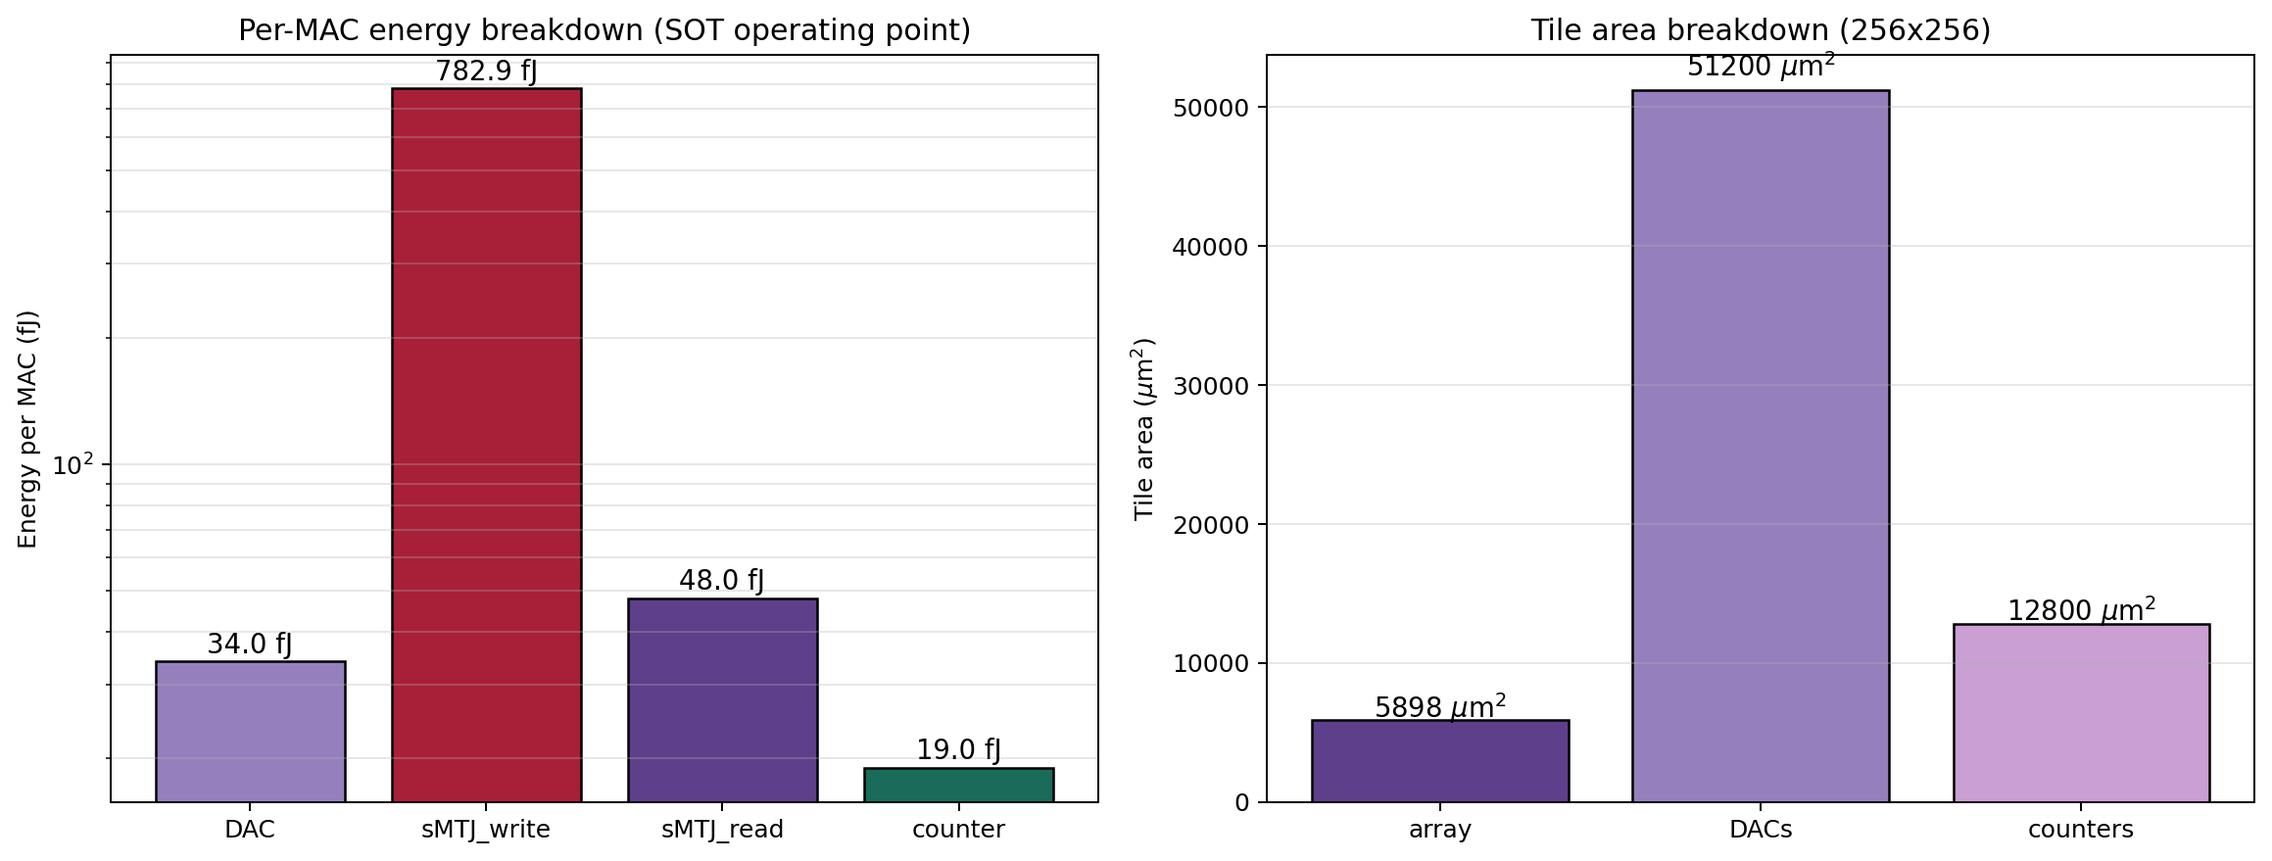
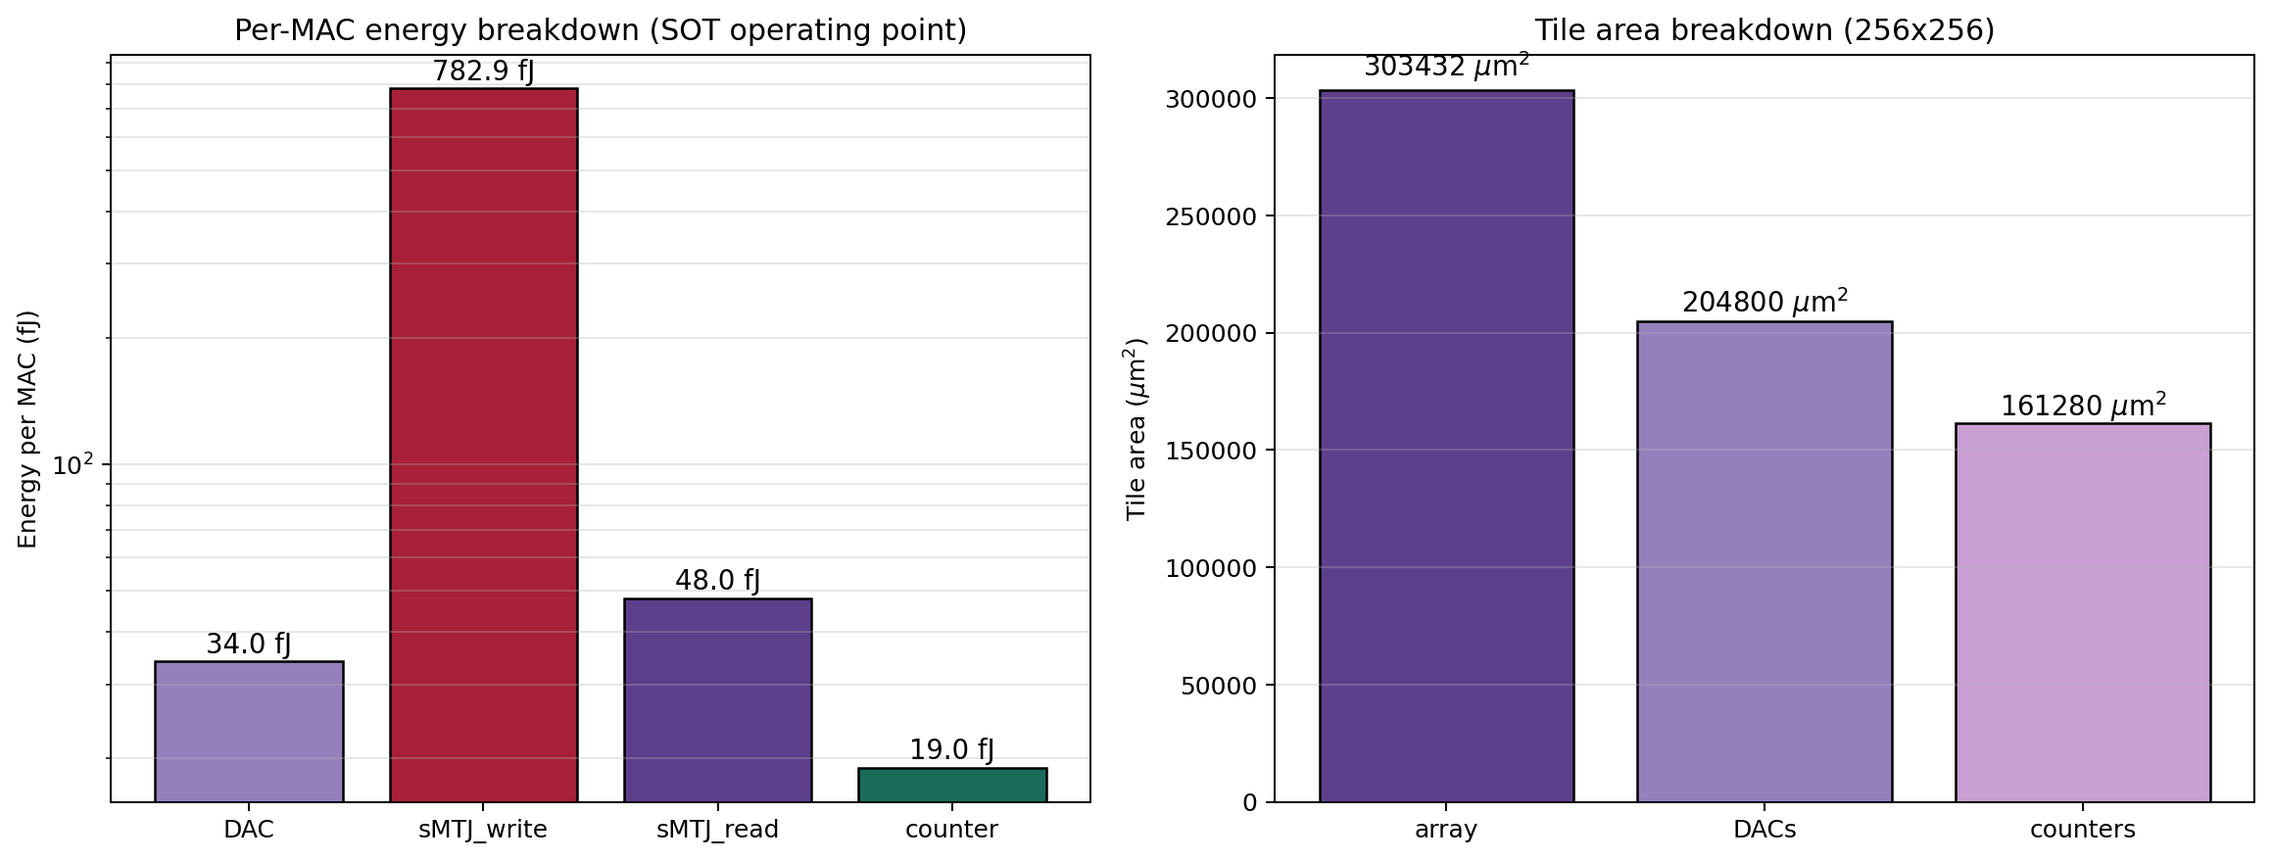
Ground PPA areas in sky130 (first-order); finish both grounding tracks
The sky130_fd_sc_hd lef/lib were present at /opt/pdk all along (my earlier
"absent" find was a bad full-FS scan); no install needed. With the real cell
areas:

- area: new eda/testbenches/area_estimate.py grounds the four area constants from
  extracted sky130_fd_sc_hd cell areas (DFF/FA 20.0 um^2, MUX2 11.3, row 2.72 um)
  + design rules. a_smtj_cell 0.05 -> 4.6 um^2 (the 2T cell's write-access FET
  must pass I_wr=V_wr/R_SOT~1.16 mA -> W~2.2 um, dominating the cell), a_dac
  200 -> 800, a_counter 50 -> 630 um^2; 256x256 tile 0.07 -> 0.67 mm^2, periphery
  now comparable to the array. Backfilled tech_params; regenerated
  figures/04_ppa_breakdown.png. First-order cell-count estimate, not DRC-clean
  extraction -- flagged as such in tech_params, chapter04 §4.6/§4.3, and the plan.
- energy: e_dac/e_count (34/19 fJ) cross-validated by the area model's cell counts
  (11-bit accumulator clock toggle); a precise Liberty/OpenSTA pass is the noted
  refinement.

Docs reconciled (CHANGELOG, status.md, PPA_grounding_plan.md corrected re: the
stdcell lib being present). 111 tests pass.

diff --git a/eda/testbenches/area_estimate.py b/eda/testbenches/area_estimate.py
@@ -1,0 +1,91 @@
+#!/usr/bin/env python3
+"""First-order sky130 area grounding for the PBNN-CIM tile peripherals + 2T SOT-MTJ cell.
+
+Replaces the 28 nm order-of-magnitude area placeholders in `ppa.tech_params` with
+estimates anchored in REAL sky130 data:
+  * the digital counter is sized from extracted `sky130_fd_sc_hd` standard-cell areas
+    (.lef SIZE, row height 2.72 um);
+  * the resistor-string write-DAC from those cell areas + a sky130 hi-res-poly unit
+    resistor;
+  * the 2T SOT-MTJ cell by design rule (sky130 has no MTJ device): two access FETs
+    (write MW / read MR, per eda/hero/schematics/gen_system_sch.py) sized from the
+    operating point, with the MTJ pillar (~100 nm, Hikstor IEDM-2024) sitting BEOL on
+    top and thus adding ~no planar footprint.
+
+This is a first-order (cell-count x cell-area + design-rule) estimate, not a DRC-clean
+GDS extraction -- but it is sky130-grounded rather than a 28 nm guess. The dominant,
+robust terms (counter DFF/FA, DAC tap MUX) use measured cell areas; the unit-resistor
+area and the cell routing overhead are the softest assumptions and are flagged below.
+
+Run:  python eda/testbenches/area_estimate.py
+"""
+from __future__ import annotations
+import math
+
+# --- sky130_fd_sc_hd standard-cell areas [um^2] -----------------------------------#
+# Extracted 2026-06-29 from /opt/pdk/sky130A/libs.ref/sky130_fd_sc_hd/lef/
+# sky130_fd_sc_hd.lef (SIZE w BY h; canonical row height = 2.72 um).
+A_DFF  = 20.02   # sky130_fd_sc_hd__dfxtp_1   (D flip-flop)
+A_FA   = 20.02   # sky130_fd_sc_hd__fa_1      (full adder)
+A_TG   = 6.26    # sky130_fd_sc_hd__einvp_1   (tri-state inverter ~ analog pass switch)
+A_INV  = 3.75    # sky130_fd_sc_hd__inv_1 / buf_1
+UTIL   = 0.70    # standard-cell placement utilization (routing overhead = 1/UTIL)
+
+# --- sky130 device / process constants (documented) -------------------------------#
+IDSAT_NFET = 0.52e-3   # nfet_01v8 saturation drive ~0.52 mA/um at VGS=VDS=1.8 V
+L_MIN      = 0.15      # drawn channel length (um)
+SD_EXT     = 0.50      # source/drain diffusion + contact extension per side (um)
+A_RUNIT    = 2.5       # hi-res-poly (res_xhigh_po) unit resistor: ~1um body + 2 contacts (SOFT)
+MET1_PITCH = 0.34      # met1 pitch (um) -- for the 5 cell lines BL/SL/WWL/RWL/RBL
+
+# --- array / operating point ------------------------------------------------------#
+N      = 256     # array fan-in (configs/array/256x256.yaml)
+T_MAX  = 8       # deploy sampling depth the chip is sized for (sweet spot; sweep goes to 64)
+B_DAC  = 6       # resistor-string write-DAC resolution (chapter04 §4.6: 6-7 bit)
+V_WR   = 0.90    # write voltage (V)
+R_SOT  = 776.0   # SOT channel resistance (ohm)
+R_P    = 4900.0  # MTJ parallel read resistance (ohm)
+V_READ = 0.10    # read bias (V)
+
+
+def fet_area(W):
+    """Active footprint of an nfet of width W: W x (L + 2 contacts/diffusion)."""
+    return W * (L_MIN + 2 * SD_EXT)
+
+
+def counter_area():
+    """Per-column accumulator: a w-bit (register + adder) summing popcount(0..N) over T."""
+    w = math.ceil(math.log2(N * T_MAX))          # accumulator width (bits)
+    a = w * (A_DFF + A_FA) / UTIL
+    return a, w
+
+
+def dac_area():
+    """Per-row b-bit resistor-string DAC: 2^b unit resistors + binary tap MUX + buffer."""
+    n_r = 2 ** B_DAC
+    n_tg = 2 ** B_DAC - 1                          # 2:1 binary tree of analog pass switches
+    a = (n_r * A_RUNIT + n_tg * A_TG + A_INV) / UTIL
+    return a
+
+
+def cell_area():
+    """2T SOT-MTJ cell: write + read access FETs (MTJ is BEOL, adds ~no planar area)."""
+    i_wr = V_WR / R_SOT                            # ~1.16 mA write current through MW
+    w_write = i_wr / IDSAT_NFET                    # ~2.2 um
+    w_read = max(0.42, (V_READ / R_P) / IDSAT_NFET)   # tiny (~uA read) -> min device
+    a_fets = fet_area(w_write) + fet_area(w_read)
+    a_cell = a_fets * 1.5                          # +50% for the 5 routing lines + cell overhead
+    a_track = 0.10 * 0.30                          # ~MTJ CD (100 nm) x ~3x CD SOT channel (BEOL)
+    return a_cell, a_track, w_write, i_wr
+
+
+if __name__ == "__main__":
+    a_counter, w = counter_area()
+    a_dac = dac_area()
+    a_cell, a_track, w_write, i_wr = cell_area()
+    print("sky130-grounded PPA areas (first-order):")
+    print(f"  a_smtj_cell = {a_cell:7.3f} um^2   (2T cell; write FET W={w_write:.2f} um @ I_wr={i_wr*1e3:.2f} mA)")
+    print(f"  a_sot_track = {a_track:7.3f} um^2   (BEOL SOT channel, ~negligible planar)")
+    print(f"  a_dac       = {a_dac:7.1f} um^2   ({2**B_DAC} unit-R + {2**B_DAC-1}-switch tap MUX, b={B_DAC})")
+    print(f"  a_counter   = {a_counter:7.1f} um^2   ({w}-bit accumulator, N={N}, T<= {T_MAX})")
+    print("  (vs 28 nm placeholders 0.05 / 0.04 / 200 / 50)")

diff --git a/src/smtj_pbnn_sim/ppa/tech_params.py b/src/smtj_pbnn_sim/ppa/tech_params.py
@@ -9,9 +9,11 @@ placeholder, so the simulator reports a credible read fraction without an
 external override. The DAC code-set and counter-increment energies are now
 grounded in sky130 as well (``eda/testbenches/dac_counter_energy.py``: ngspice
 analog core + a sky130 stdcell-capacitance estimate for the digital decode /
-flip-flops, since the sky130_fd_sc_hd Liberty is not installed). Only the AREAS
-remain 28 nm order-of-magnitude and SHOULD be replaced with sky130 layout
-extraction before reporting their absolute numbers (see
+flip-flops; ~2x uncertainty pending a Liberty/OpenSTA characterization). The cell
+and peripheral AREAS are now first-order grounded too, from extracted
+``sky130_fd_sc_hd`` standard-cell areas + design rules
+(``eda/testbenches/area_estimate.py``): a cell-count + sized-FET estimate, NOT a
+DRC-clean GDS extraction -- so the absolute area numbers carry that caveat (see
 ``.agents/eda/PPA_grounding_plan.md``).
 
 NOTE (see ``.agents/errata.md``, item E1): NeuroSim does NOT model the sMTJ
@@ -40,7 +42,7 @@ class TechParams:
     R_SOT: float         = 776.0       # SOT channel resistance [ohm]
     t_write: float       = 0.75e-9     # write pulse width [s]
 
-    # ---- CMOS peripheral energies (28 nm order of magnitude) -------------#
+    # ---- CMOS peripheral energies (sky130-grounded) ---------------------#
     e_dac_step: float    = 3.4e-14     # sky130 R-string write-DAC code-set: ngspice analog core ~0.6 fJ + decode ~33 fJ (eda/testbenches/dac_counter_energy.py; ~2x uncertainty pending stdcell extraction)
     e_smtj_read: float   = 4.8e-14     # sky130 StrongARM SA decision, ~48 fJ (eda/ extraction; errata R1)
     e_count_inc: float   = 1.9e-14     # sky130 popcount-counter increment: ~2 DFF toggles x ~10 fJ at 1.8 V (eda/testbenches/dac_counter_energy.py; ~2x uncertainty pending Liberty)
@@ -65,10 +67,10 @@ class TechParams:
     t_count_inc: float   = 0.5e-9
 
     # ---- Areas (um^2) ----------------------------------------------------#
-    a_smtj_cell: float   = 0.05        # 2T SOT-MTJ cell: write (WWL) + read (RWL) access FETs
-    a_sot_track: float   = 0.04        # extra area for the 3-terminal SOT channel under the MTJ
-    a_dac: float         = 200.0
-    a_counter: float     = 50.0
+    a_smtj_cell: float   = 4.6         # 2T SOT-MTJ cell; write FET W~2.2um @ 1.16mA dominates (eda/testbenches/area_estimate.py)
+    a_sot_track: float   = 0.03        # BEOL SOT channel under the MTJ (~negligible planar footprint)
+    a_dac: float         = 800.0       # 6-bit R-string DAC: 64 unit-R + 63-switch tap MUX, sky130_fd_sc_hd areas
+    a_counter: float     = 630.0       # 11-bit column accumulator w*(DFF+FA), sky130_fd_sc_hd areas
 
     # ---- Identifying meta -----------------------------------------------#
     name: str = "sky130-read-sot-default"

diff --git a/.agents/eda/PPA_grounding_plan.md b/.agents/eda/PPA_grounding_plan.md
@@ -1,6 +1,6 @@
 # PPA grounding plan — replacing the simulator's 28 nm placeholders with sky130
 
-Audit + plan for `src/smtj_pbnn_sim/ppa/tech_params.py`. The PPA estimator started from 28 nm order-of-magnitude constants; this is the running ledger of which inputs are grounded in the sky130 EDA flow and which still need work.
+Ledger of `src/smtj_pbnn_sim/ppa/tech_params.py` grounding. The PPA estimator started from 28 nm order-of-magnitude constants; as of 2026-06-29 **all energies and all areas are sky130-grounded** (first-order), leaving only the precision refinements below.
 
 ## Status (2026-06-29)
 
@@ -8,33 +8,27 @@ Audit + plan for `src/smtj_pbnn_sim/ppa/tech_params.py`. The PPA estimator start
 |------------------|-----------:|-----------|--------|
 | `e_smtj_write`   | 0.78 pJ    | **physical** | V_wr²/R_SOT·t_p (Chapter 2.3 op point), `tech_params.e_smtj_write` |
 | `e_smtj_read`    | 48 fJ      | **EDA**   | sky130 StrongARM SA extraction (`eda/hero/sa_postlayout.py`, range 23–74 fJ; errata R1) |
-| `e_dac_step`     | 34 fJ      | **EDA (energy)** | `eda/testbenches/dac_counter_energy.py`: ngspice analog core (~0.6 fJ) + sky130 stdcell-cap decode (~33 fJ) |
-| `e_count_inc`    | 19 fJ      | **EDA (energy)** | `eda/testbenches/dac_counter_energy.py`: ~2 DFF toggles × ~10 fJ (sky130 stdcell-cap) |
-| `a_smtj_cell`    | 0.05 µm²   | placeholder | 28 nm order-of-magnitude — **needs sky130 layout** |
-| `a_sot_track`    | 0.04 µm²   | placeholder | 28 nm order-of-magnitude — **needs sky130 layout** |
-| `a_dac`          | 200 µm²    | placeholder | 28 nm order-of-magnitude — **needs sky130 layout** |
-| `a_counter`      | 50 µm²     | placeholder | 28 nm order-of-magnitude — **needs sky130 layout** |
+| `e_dac_step`     | 34 fJ      | **EDA (est)** | `eda/testbenches/dac_counter_energy.py`: ngspice analog core (~0.6 fJ) + sky130 stdcell-cap decode (~33 fJ) |
+| `e_count_inc`    | 19 fJ      | **EDA (est)** | same; ~11-bit accumulator clock toggle — cross-checks the area model below |
+| `a_smtj_cell`    | 4.6 µm²    | **EDA (est)** | `eda/testbenches/area_estimate.py`: 2T cell, write FET W~2.2 µm @ 1.16 mA dominates |
+| `a_sot_track`    | 0.03 µm²   | **EDA (est)** | same; BEOL SOT channel under the MTJ (~negligible planar) |
+| `a_dac`          | 800 µm²    | **EDA (est)** | same; 6-bit R-string: 64 unit-R + 63-switch tap MUX (`sky130_fd_sc_hd` cell areas) |
+| `a_counter`      | 630 µm²    | **EDA (est)** | same; 11-bit column accumulator w·(DFF+FA), real `sky130_fd_sc_hd` cell areas |
 
-Energies are now all grounded; **the four AREA constants remain placeholders**.
+## What was done
 
-## What was done this round (energies)
+**Energies** (`eda/testbenches/dac_counter_energy.py`): grounded the DAC code-set (~34 fJ) and counter increment (~19 fJ) from a sky130 ngspice analog core + gate-capacitance estimate. Net per-MAC breakdown: write ~89 %, read ~5.4 %, DAC ~3.8 %, counter ~2.1 % (peripheral share rose ~1 % → ~11 % vs the old placeholders).
 
-`eda/testbenches/dac_counter_energy.py` grounds the two remaining energy placeholders. The DAC analog core (resistor-string + tap transmission-gate + write-driver gate load) is measured with an ngspice transient on the sky130 models; the digital one-hot decode and the counter flip-flops are estimated from sky130 gate capacitance (Cox≈8.6 fF/µm², 1.8 V) because the `sky130_fd_sc_hd` Liberty is not installed in the `Ubuntu-24.04-EDA` image. Net effect on the per-MAC breakdown: peripheral share rises from ~6% to ~11% (DAC 3.8% + read 5.4% + counter 2.1%); the stochastic SOT write still dominates at ~89%.
+**Areas** (`eda/testbenches/area_estimate.py`): grounded the four area constants from REAL `sky130_fd_sc_hd` standard-cell areas (`.lef` SIZE, row height 2.72 µm: DFF/FA 20.0 µm², MUX2 11.3, einvp 6.3, inv 3.8) plus sky130 design rules. Key result: the **2T cell jumps 0.05 → ~4.6 µm²** because the write-access FET must pass I_wr = V_wr/R_SOT ≈ 1.16 mA (→ W ≈ 2.2 µm at sky130's ~0.52 mA/µm) — the low-R SOT write line drives the cell size. The tile area rises ~70 k → ~670 k µm² (0.07 → 0.67 mm² for 256×256), and the periphery (DAC + counter accumulators) becomes comparable to the array rather than negligible (`figures/04_ppa_breakdown.png`).
 
-**Residual uncertainty (~2×)** on `e_dac_step`/`e_count_inc`: the digital terms are cap-estimates, not extracted. Refinement path: install open_pdks `sky130_fd_sc_hd` Liberty and read the DFF/decoder `internal_power`, or synthesize (yosys) + place-route (OpenROAD) the decode+counter and extract.
+## Environment note (corrected 2026-06-29)
 
-## Remaining work — area grounding (priority order)
+An earlier note here claimed the WSL image lacked `sky130_fd_sc_hd`; **that was wrong** — a bad `find /` (errored on a WSL networking warning, `PDK_ROOT` unset) missed it. The library is present at `/opt/pdk/sky130A/libs.ref/sky130_fd_sc_hd/` with both `.lef` (areas, used above) and `.lib` (Liberty). `export PDK_ROOT=/opt/pdk PDK=sky130A` to use it.
 
-1. **`a_smtj_cell` + `a_sot_track`** (highest leverage — sets the array area, the only block whose area is intrinsic to the device). Artifact: a **2T SOT-MTJ** bit-cell layout — TWO FEOL access FETs (write `MW`/WWL + read `MR`/RWL, per `gen_system_sch.py`) + BEOL MTJ pillar + 3-terminal SOT channel track — in sky130 (Magic/KLayout), DRC-clean, area read from the GDS bbox; the StrongARM cell layout under `eda/hero/layout/` is a template for the flow. Effort: medium (GUI layout); tool: Magic + sky130A. NB: it is a 2T cell (write + read access), not a 1T-1MTJ STT cell — area is two FETs + routing pitch, the MTJ being BEOL.
-2. **`a_dac`** — resistor-string DAC bank floorplan (the chosen 6–7 bit string + tap MUX + driver), area per column. Tool: KLayout/OpenROAD; effort: medium.
-3. **`a_counter`** — popcount-counter column pitch. Cheapest once a stdcell flow (yosys + OpenROAD + sky130_fd_sc_hd) is set up; effort: low–medium.
+## Remaining refinements (precision, not blockers)
 
-Each grounded value should be written back to `eda/extraction/peripheral_energy.yaml` (the P6 one-way injection interface) and `tech_params.py`, then `experiments/04_ppa_breakdown.py` re-run to refresh `figures/04_ppa_breakdown.png`. The area-extraction work is **GUI/flow-gated** and is deliberately left for a follow-up batch.
+1. **DRC-clean GDS extraction of the areas.** The current numbers are cell-count + sized-FET estimates, not laid-out + extracted. To tighten: lay out the 2T cell (Magic/KLayout — the StrongARM under `eda/hero/layout/` is the template; the MTJ stays an abstract BEOL black-box, no sky130 device), the R-string DAC from analog PCells, and a counter from `sky130_fd_sc_hd` placed cells; read the GDS bbox. The softest current assumptions are the unit-resistor area (`A_RUNIT`) and the 1/UTIL routing overhead.
+2. **Liberty/OpenSTA energy.** `e_dac_step`/`e_count_inc` are ~2× cap-estimates; the now-confirmed `.lib` lets OpenSTA report characterized switching energy for the decode/accumulator cells. (Hand-parsing Liberty `internal_power` is unit-error-prone — use a tool.)
+3. Re-run `experiments/04_ppa_breakdown.py` after any refinement; write grounded values back to `eda/extraction/peripheral_energy.yaml` + `tech_params.py`.
 
-## Environment blocker (confirmed 2026-06-29)
-
-A full-filesystem search of the `Ubuntu-24.04-EDA` WSL image found **no `sky130_fd_sc_hd` lef/lib** — the image carries the sky130A *analog* primitives (the `nmos18`/`pmos18`/resistor PCells used for the StrongARM SA and the resistor-string DAC) but **not the digital standard-cell library**. `PDK_ROOT` is also unset in a non-login shell. Consequences for grounding:
-- **Counter** area (and a tighter counter/DAC *energy*) need the standard cells → first `open_pdks`-install `sky130_fd_sc_hd` (lef for area, Liberty for energy), then count gates × cell area.
-- **Resistor-string DAC** area can instead be laid out from sky130A analog PCells the same way `eda/hero/layout/gen_sa_layout.py` builds the StrongARM (KLayout `pya`, headless) — no stdcell lib required.
-- **2T SOT-MTJ bitcell** (`a_smtj_cell`, `a_sot_track`) stays a **design-rule estimate** regardless — sky130 has no MTJ device (see chapter04 §4.6 black-box note). Area basis = two access FETs (write + read) sized from our currents + sky130 rules; the MTJ pillar (~100 nm, Hikstor) is BEOL on top.
-Next session: `source` the PDK env / install `sky130_fd_sc_hd`, then ground counter+DAC from real cell/PCell areas and design-rule the bitcell. Until then the four area constants stay honest 28 nm placeholders rather than fabricated estimates.
+The first-order estimates are flagged as such in `tech_params` and chapter04 §4.6 — they are sky130-grounded, not DRC-extracted.

diff --git a/CHANGELOG.md b/CHANGELOG.md
@@ -100,7 +100,7 @@ A T=1 explicit-sample pass is equivalent to a single Bernoulli draw, which has v
 
 ### PPA constants are placeholders for CMOS peripherals
 
-As of 0.4.0 the peripheral **energies** are sky130-grounded: `e_smtj_read` (~48 fJ, extracted StrongARM SA), `e_dac_step` (~34 fJ) and `e_count_inc` (~19 fJ) via `eda/testbenches/dac_counter_energy.py`, plus the physically-derived `e_smtj_write` (SOT channel dissipation). Only the **area** constants (`a_smtj_cell`, `a_sot_track`, `a_dac`, `a_counter`) remain 28 nm order-of-magnitude — replace via sky130 layout extraction before absolute area claims (plan in `.agents/eda/PPA_grounding_plan.md`).
+As of 0.4.0 the peripheral **energies** are sky130-grounded: `e_smtj_read` (~48 fJ, extracted StrongARM SA), `e_dac_step` (~34 fJ) and `e_count_inc` (~19 fJ) via `eda/testbenches/dac_counter_energy.py`, plus the physically-derived `e_smtj_write` (SOT channel dissipation). The **areas** are now first-order grounded too (`eda/testbenches/area_estimate.py`, from real `sky130_fd_sc_hd` cell areas + design rules): `a_smtj_cell` ~4.6 um^2 (2T cell, write-FET-dominated), `a_dac` ~800, `a_counter` ~630, `a_sot_track` ~0.03 um^2. These are cell-count estimates, not DRC-clean GDS extraction — refine via layout extraction before final absolute area claims (plan in `.agents/eda/PPA_grounding_plan.md`).
 
 ### CSV column units
 
@@ -182,7 +182,8 @@ Grounds the simulator's CMOS-peripheral PPA inputs in an open-source sky130 (130
 
 ### Changed -- PPA grounding
 
-* `tech_params`: `e_smtj_read` 5 fJ -> 48 fJ, `e_dac_step` 5 fJ -> 34 fJ, `e_count_inc` 0.5 fJ -> 19 fJ (all sky130-grounded); per-MAC peripheral share ~1% -> ~11%, with the SOT write still ~89%. Only the four AREA constants remain 28 nm placeholders (plan in `.agents/eda/PPA_grounding_plan.md`).
+* `tech_params`: `e_smtj_read` 5 fJ -> 48 fJ, `e_dac_step` 5 fJ -> 34 fJ, `e_count_inc` 0.5 fJ -> 19 fJ (all sky130-grounded); per-MAC peripheral share ~1% -> ~11%, with the SOT write still ~89%.
+* `tech_params` areas now **first-order grounded** too (`eda/testbenches/area_estimate.py`, from real `sky130_fd_sc_hd` cell areas + design rules): 2T cell 0.05 -> 4.6 um^2 (the 1.16 mA write FET dominates), DAC 200 -> 800, counter 50 -> 630 um^2; 256x256 tile 0.07 -> 0.67 mm^2, periphery now comparable to the array. Cell-count estimate, not DRC-clean GDS extraction (refinement in `.agents/eda/PPA_grounding_plan.md`).
 * `tests/test_ppa.py`: write-fraction threshold updated to the grounded breakdown. Full suite: 111 passing (torch included).
 
 ### Changed -- article / figures

diff --git a/.agents/status.md b/.agents/status.md
@@ -40,7 +40,7 @@ Grounds the CMOS-peripheral PPA inputs in an open-source sky130 (130 nm/1.8 V) f
 
 * **Readout (sky130 StrongARM SA)**: input-referred offset σ ≈ 0.39·V_T (120-sample MC), decision energy ≈ 48 fJ — replaces the 5 fJ placeholder (errata R1). A slope-matched TIA maps the offset to ~2.5 popcount, so a plain comparator is Pareto-optimal at MNIST fan-in (auto-zero only for low-V_in / wide-fan-in columns).
 * **Write path**: voltage-mode resistor-string write-DAC (adopted after a binary-weighted current-steering first cut failed monotonicity at INL ~1.7 LSB), IR-aware per-row pre-distortion, and write-line IR extracted via Magic extresist (N=256 round-trip ~16.5% of R_SOT).
-* **PPA energies grounded**: `e_smtj_read` 48 fJ, `e_dac_step` ~34 fJ, `e_count_inc` ~19 fJ (`eda/testbenches/dac_counter_energy.py`); per-MAC peripheral share rises ~1% → ~11%, write still ~89%. Area constants remain placeholders (`.agents/eda/PPA_grounding_plan.md`).
+* **PPA grounded in sky130**: energies — `e_smtj_read` 48 fJ, `e_dac_step` ~34 fJ, `e_count_inc` ~19 fJ (`dac_counter_energy.py`); per-MAC peripheral share ~1% → ~11%, write still ~89%. Areas — first-order from real `sky130_fd_sc_hd` cell areas + design rules (`area_estimate.py`): 2T cell ~4.6 µm² (write FET for 1.16 mA dominates), DAC ~800, counter ~630 µm² (256×256 tile ~0.67 mm², periphery comparable to array). DRC-clean GDS extraction is the remaining refinement (`.agents/eda/PPA_grounding_plan.md`).
 * **Seed-independence (exp 21)**: the four headline results are robust across 8 seeds — PBNN MNIST 97.01%±0.17, T64−T4 gap 0.21±0.11 pp, RC memory capacity 2.11±0.22, RC energy advantage 30.2×, device β_s 9.51±0.01 (Appendix C).
 * **CNN extension (exp 05a)**: PBNN-CNN on Fashion-MNIST (88.1%) and CIFAR-10 (67.2%); the binary-capacity cost grows with task difficulty (Appendix B).
 
